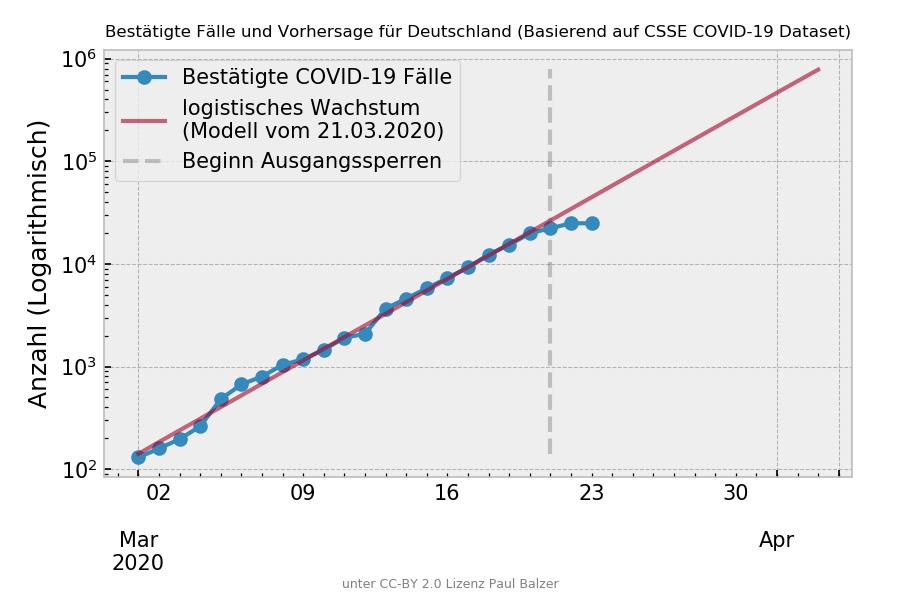
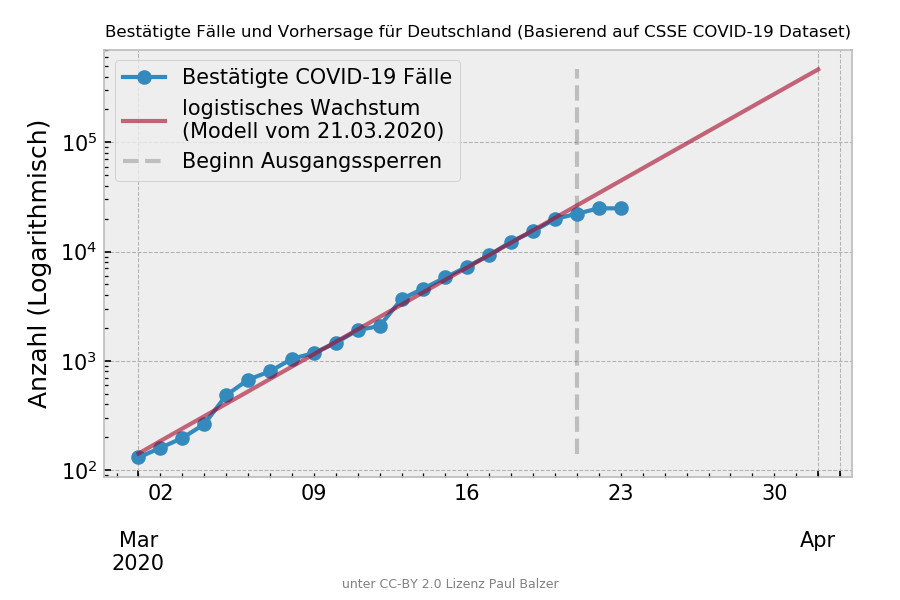
Fix Enddate to 01.04.2020

diff --git a/html/index.html b/html/index.html
@@ -36,14 +36,14 @@
           
           
             
-              <div class="bk-root" id="00bfbe49-fdc1-43e8-9864-fb09f29317fa" data-root-id="1158"></div>
+              <div class="bk-root" id="6bf06320-6652-4b04-a537-462e99c0e8ba" data-root-id="1796"></div>
             
           
         
       
       
-        <script type="application/json" id="1319">
[1 lines of base64/hex data omitted]
+        <script type="application/json" id="1957">
[1 lines of base64/hex data omitted]
         </script>
         <script type="text/javascript">
           (function() {
@@ -52,8 +52,8 @@
                 (function(root) {
                   function embed_document(root) {
                     
-                  var docs_json = document.getElementById('1319').textContent;
-                  var render_items = [{"docid":"f4ef7d19-b7d4-4599-82a3-6f3a9a3aaf78","roots":{"1158":"00bfbe49-fdc1-43e8-9864-fb09f29317fa"}}];
+                  var docs_json = document.getElementById('1957').textContent;
+                  var render_items = [{"docid":"e80e725b-1f5a-4602-aadf-8f59af6c265f","roots":{"1796":"6bf06320-6652-4b04-a537-462e99c0e8ba"}}];
                   root.Bokeh.embed.embed_items(docs_json, render_items);
                 
                   }

diff --git a/predict.py b/predict.py
@@ -1,7 +1,7 @@
 #!/usr/bin/env python#!/usr/bin/python
 # coding: utf-8
 
-# In[1]:
+# In[82]:
 
 
 import pandas as pd
@@ -23,7 +23,7 @@ plt.style.use('bmh')
 # 
 # We are using the Covid-19 Dataset: https://github.com/CSSEGISandData/COVID-19
 
-# In[2]:
+# In[83]:
 
 
 url = 'https://raw.githubusercontent.com'
@@ -33,13 +33,13 @@ url += '/time_series_19-covid-Confirmed.csv'
 print('Downloading Data from %s' % url)
 
 
-# In[3]:
+# In[84]:
 
 
 confirmed_raw = pd.read_csv(url)
 
 
-# In[4]:
+# In[85]:
 
 
 confirmed_raw.head()
@@ -47,7 +47,7 @@ confirmed_raw.head()
 
 # ### Preprocessing
 
-# In[5]:
+# In[86]:
 
 
 confirmed = confirmed_raw[confirmed_raw['Country/Region']=='Germany'].T
@@ -55,7 +55,7 @@ confirmed = confirmed[4:].astype('int')
 confirmed.columns = ['confirmed']
 
 
-# In[6]:
+# In[87]:
 
 
 confirmed.index = pd.to_datetime(confirmed.index)
@@ -64,7 +64,7 @@ confirmed = confirmed.asfreq('D')
 
 # Filter der Daten: Wir nehmen für die Modellbildung erst den Tag als Beginn, an dem erstmals mehr als 100 Erkrankte gemeldet waren.
 
-# In[7]:
+# In[88]:
 
 
 confirmed = confirmed[confirmed.confirmed>=100]
@@ -74,7 +74,7 @@ confirmed = confirmed[confirmed.confirmed>=100]
 # 
 # Man kann immer ein aktuelles Modell rechnen, oder schauen wie sich die Zahlen verändern, basierend auf einem Modell von einem festen Datum aus.
 
-# In[8]:
+# In[89]:
 
 
 #today = confirmed.index[-1] # immer aktuell rechnen
@@ -83,13 +83,13 @@ today = datetime.date(2020, 3, 21) # 21.03.2020 als Bezugsdatum nehme
 
 # ## Feature
 
-# In[9]:
+# In[90]:
 
 
 confirmed['days'] = (confirmed.index - confirmed.index.min()).days
 
 
-# In[10]:
+# In[91]:
 
 
 confirmed.head()
@@ -99,13 +99,13 @@ confirmed.head()
 # 
 # Am Wochenende 20.03./21.03.2020 haben einige Gemeinden und Städte Ausgangssperren verhängt (z.B. [Dresden](https://www.dresden.de/media/pdf/presseamt/Allgemeinverfuegung.pdf), Mitterteich, ganz Bayern usw). Daher werden wir uns das Datum mal merken.
 
-# In[11]:
+# In[92]:
 
 
 ausgangssperren_timestamp = datetime.datetime(2020, 3, 21, 12, 0)
 
 
-# In[12]:
+# In[93]:
 
 
 ausgangssperren_timestamp_epoch = time.mktime(ausgangssperren_timestamp.timetuple())*1000
@@ -121,7 +121,7 @@ ausgangssperren_timestamp_epoch = time.mktime(ausgangssperren_timestamp.timetupl
 # 
 # $\log_e(y) = B x + \log_e (A)$
 
-# In[13]:
+# In[94]:
 
 
 from sklearn.linear_model import LinearRegression
@@ -129,7 +129,7 @@ from sklearn.metrics import r2_score
 import numpy as np
 
 
-# In[14]:
+# In[95]:
 
 
 X = confirmed[:today]['days'].values.reshape(-1, 1)
@@ -139,14 +139,14 @@ logy = np.log(y)
 
 # ### Train
 
-# In[15]:
+# In[96]:
 
 
 clf = LinearRegression()
 clf.fit(X, logy)
 
 
-# In[16]:
+# In[97]:
 
 
 logy_pred = clf.predict(X)
@@ -154,13 +154,13 @@ logy_pred = clf.predict(X)
 
 # Die mit dem linearen Modell vorhergesagten Werte sind im logarithmischen, müssen mit der $e^y$ noch zurück konvertiert werden.
 
-# In[17]:
+# In[98]:
 
 
 confirmed.loc[:today,'predicted_exp'] = np.exp(logy_pred).astype('int')
 
 
-# In[18]:
+# In[99]:
 
 
 confirmed.tail()
@@ -168,7 +168,7 @@ confirmed.tail()
 
 # ### Modelparameter
 
-# In[19]:
+# In[100]:
 
 
 B = clf.coef_[0]
@@ -191,14 +191,14 @@ print('Modellparameter sind A=%.1f, B=%.3f' % (A, B))
 # 
 # Hier können wir die gefundenen Modellparameter aus dem exponentiellen Wachstum nutzen.
 
-# In[20]:
+# In[101]:
 
 
 infektionsrate = 0.7
 gesamtanzahl = 81465126
 
 
-# In[21]:
+# In[102]:
 
 
 def logistic_function(s, r=B, K=infektionsrate*gesamtanzahl, P0=A):
@@ -211,7 +211,7 @@ def logistic_function(s, r=B, K=infektionsrate*gesamtanzahl, P0=A):
 # 
 # R² score: the coefficient of determination
 
-# In[22]:
+# In[103]:
 
 
 r = r2_score(confirmed.loc[:today, 'confirmed'].values, confirmed.loc[:today,'predicted_exp'].values)
@@ -220,7 +220,7 @@ print('R2 = %.3f' % r)
 
 # ## Save the model for later use
 
-# In[23]:
+# In[104]:
 
 
 import pickle
@@ -235,14 +235,18 @@ print('Saved the Model to %s' % pklfilename)
 # ## Future
 # 
 # Basierend auf den Daten möchte man nun gern in die Zukunft blicken. Dabei kann man den nächsten Tag sicherlich relativ gut vorher sagen, aber mit zunehmender Zeit wird es unsicher (Extrapolation).
+# 
+# Wir möchten die Vorhersage immer nur bis 31.03.2020 betreiben.
 
-# In[24]:
+# In[105]:
 
 
-fd = 12 # days into the future
+#fd = 12 # days into the future
+bezugstag = datetime.date(2020, 3, 31) # bis auf dieses Datum beziehen
+fd = (bezugstag - today).days
 
 
-# In[25]:
+# In[106]:
 
 
 # Create DataFrame in the Future
@@ -252,7 +256,7 @@ days_in_future = confirmed.days[-1] + np.arange(1, fd)
 future = pd.DataFrame(data=days_in_future, index=dates, columns=['days'])
 
 
-# In[26]:
+# In[107]:
 
 
 future = confirmed.append(future, sort=True)
@@ -260,26 +264,26 @@ future = confirmed.append(future, sort=True)
 
 # ### Predict the Future
 
-# In[27]:
+# In[108]:
 
 
 X_future = future['days'].values.reshape(-1, 1)
 
 
-# In[28]:
+# In[109]:
 
 
 logy_pred = clf.predict(X_future)
 future['predicted_exp'] = np.exp(logy_pred).astype('int')
 
 
-# In[29]:
+# In[110]:
 
 
 future['predicted_log'] = future.apply(logistic_function, axis=1)
 
 
-# In[30]:
+# In[111]:
 
 
 future
@@ -287,13 +291,13 @@ future
 
 # ## Future Plot
 
-# In[31]:
+# In[112]:
 
 
 title = 'Bestätigte Fälle und Vorhersage für Deutschland (Basierend auf CSSE COVID-19 Dataset)'
 
 
-# In[32]:
+# In[113]:
 
 
 ax = future['confirmed'].plot(label='Bestätigte COVID-19 Fälle', marker='o')
@@ -318,7 +322,7 @@ print('Saved the Figure')
 
 # ## Export as Excel
 
-# In[33]:
+# In[114]:
 
 
 xlsfile = './%s-Germany-Covid19-Prediction.xlsx' % confirmed.index[-1].strftime('%Y-%m-%d')
@@ -330,7 +334,7 @@ print('Saved the Excel to %s' % xlsfile)
 # 
 # We are using Bokeh to export an interactive website
 
-# In[34]:
+# In[115]:
 
 
 from bokeh.plotting import figure
@@ -342,13 +346,13 @@ from bokeh.resources import CDN
 from bokeh.palettes import inferno
 
 
-# In[35]:
+# In[116]:
 
 
 colors = inferno(6) # What else for this scenario ;)
 
 
-# In[36]:
+# In[117]:
 
 
 p = figure(tools="hover,save,pan,box_zoom,reset,wheel_zoom",
@@ -416,7 +420,7 @@ html = file_html(column(p, div, sizing_mode="stretch_both"), CDN, 'COVID-19 Pred
 
 # ## Style the Website
 
-# In[37]:
+# In[118]:
 
 
 head = '''
@@ -425,7 +429,7 @@ head = '''
 '''
 
 
-# In[38]:
+# In[119]:
 
 
 gtc = '''
@@ -442,14 +446,14 @@ gtc = '''
 '''
 
 
-# In[39]:
+# In[120]:
 
 
 websitehtml = html.replace('<body>', head)
 websitehtml = websitehtml.replace('</body>', gtc)
 
 
-# In[40]:
+# In[121]:
 
 
 with open('./html/index.html', 'w') as htmlfile:
